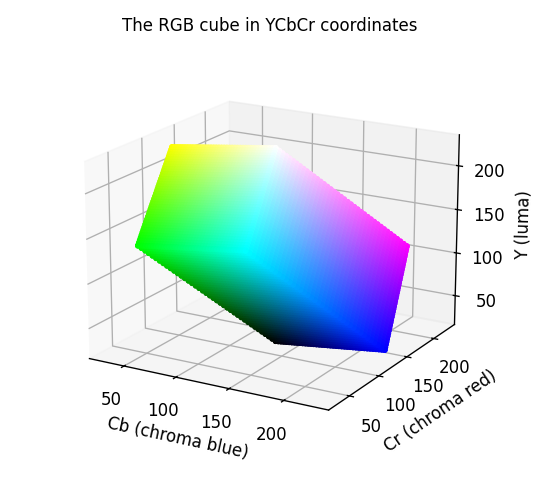
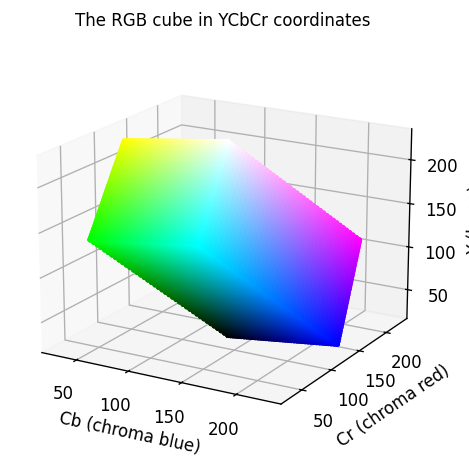
scripts/make_ycbcr_cube_figure: trim the whitespace

Changed region(s): [[0.0896, 0.2094, 1.0, 0.9872], [0.1493, 0.0299, 0.806, 0.0897], [0.6866, 0.4487, 0.7164, 0.4786]]

diff --git a/scripts/make_ycbcr_cube_figure.py b/scripts/make_ycbcr_cube_figure.py
@@ -43,5 +43,5 @@ ax.set_zlim(16, 235)
 ax.view_init(elev=18, azim=-60)
 ax.set_title('The RGB cube in YCbCr coordinates', fontsize=10)
 fig.tight_layout()
-fig.savefig(OUT, dpi=120)
+fig.savefig(OUT, dpi=120, bbox_inches='tight')
 print('wrote', OUT.relative_to(OUT.parent.parent))
